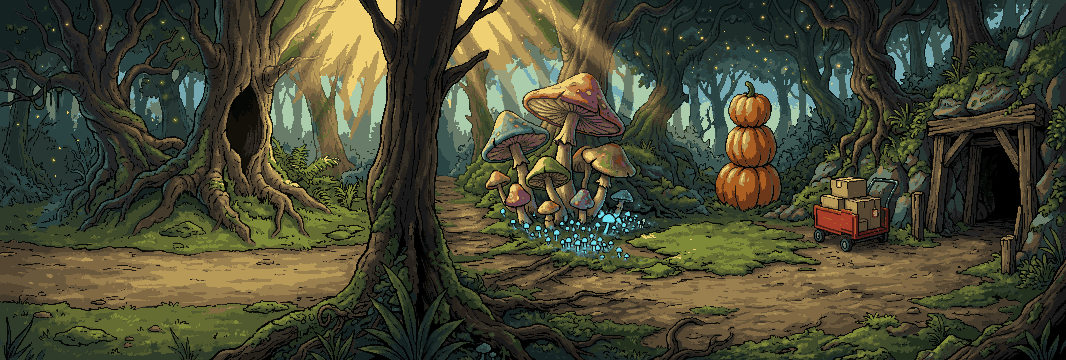
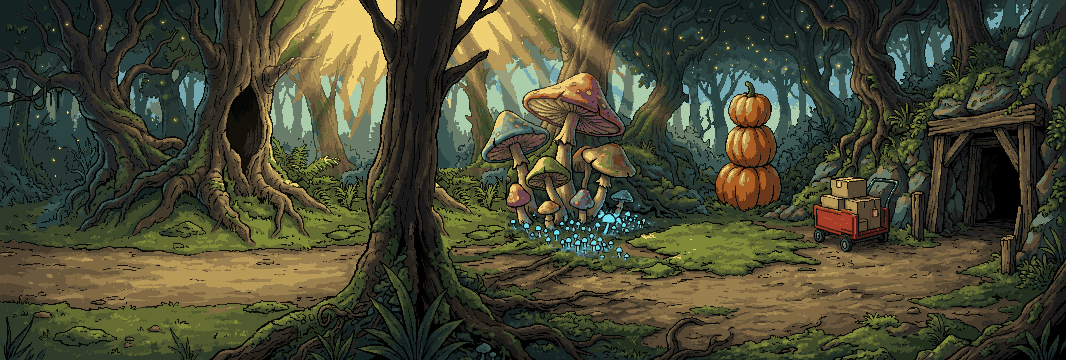
Zauberwald: Weggabelung hinter dem dicken Baum übermalt, nur noch ein durchgehender Weg

Changed region(s): [[0.4024, 0.4583, 0.4953, 0.7028]]

diff --git a/docs/offene-punkte.md b/docs/offene-punkte.md
@@ -57,6 +57,7 @@ Jede Änderung, die nach dem Gemini-Bild von Hand oder per Skript gemacht wurde,
 | Klassenzimmer | Socke fehlt auf dem Hocker (388, 192) | – | Deko-Sprite Socke |
 | Zauberwald, `w1_bg_zauberwald_v01.png` | Breitbild 1066×360: rechts Sebastians erste Fassung (`zauberwald_sebastian_v1.jpeg`), links ein tieferer Waldteil (`zauberwald_sebastian_links_v2.jpeg`), zusammengesetzt als `zauberwald_breit_v1.png` | Gemini-Chat: Vorlage mit grauer Fläche ergänzen lassen, dann Boden freigeräumt; Naht um 8 Pixel ausgerichtet, 60 Pixel weich überblendet | Naht im dicken Baum prüfen (Spielpixel um x 421) |
 | Zauberwald | Dicker Baum auf der Naht als Vordergrund-Prop `grafik/props/alter_baum.png` (340, 0, 150, 360), Umriss als Vieleck freigestellt, Baseline am unteren Rand | Skript | Umriss sauber freistellen; prüfen, ob Max dahinter natürlich verschwindet |
+| Zauberwald | Weggabelung hinter dem dicken Baum (der alte Weg zur Brücke nach oben links) mit Moos übermalt, Bereich 432, 168 bis 506, 250, Quelle 140 Pixel links daneben; Sebastian: Übergang passte nicht | Skript | Moos und Farn an der Stelle sauber zeichnen |
 | Zauberwald | Riesenpilze nachgefärbt, Bereich 479, 70 bis 639, 262 | Skript, 8 Zusatzfarben | Hüte bunter, besonders rosa und violett |
 | Zauberwald | Leuchtpilze nachgefärbt, Bereich 499, 200 bis 639, 262 | Skript, 4 Zusatzfarben | Leuchten und Schein |
 | Zauberwald | Lieferkarren und Ketchup nachgefärbt, Bereich 809, 175 bis 894, 250 | Skript, 4 Zusatzfarben | Rot des Karrens |
